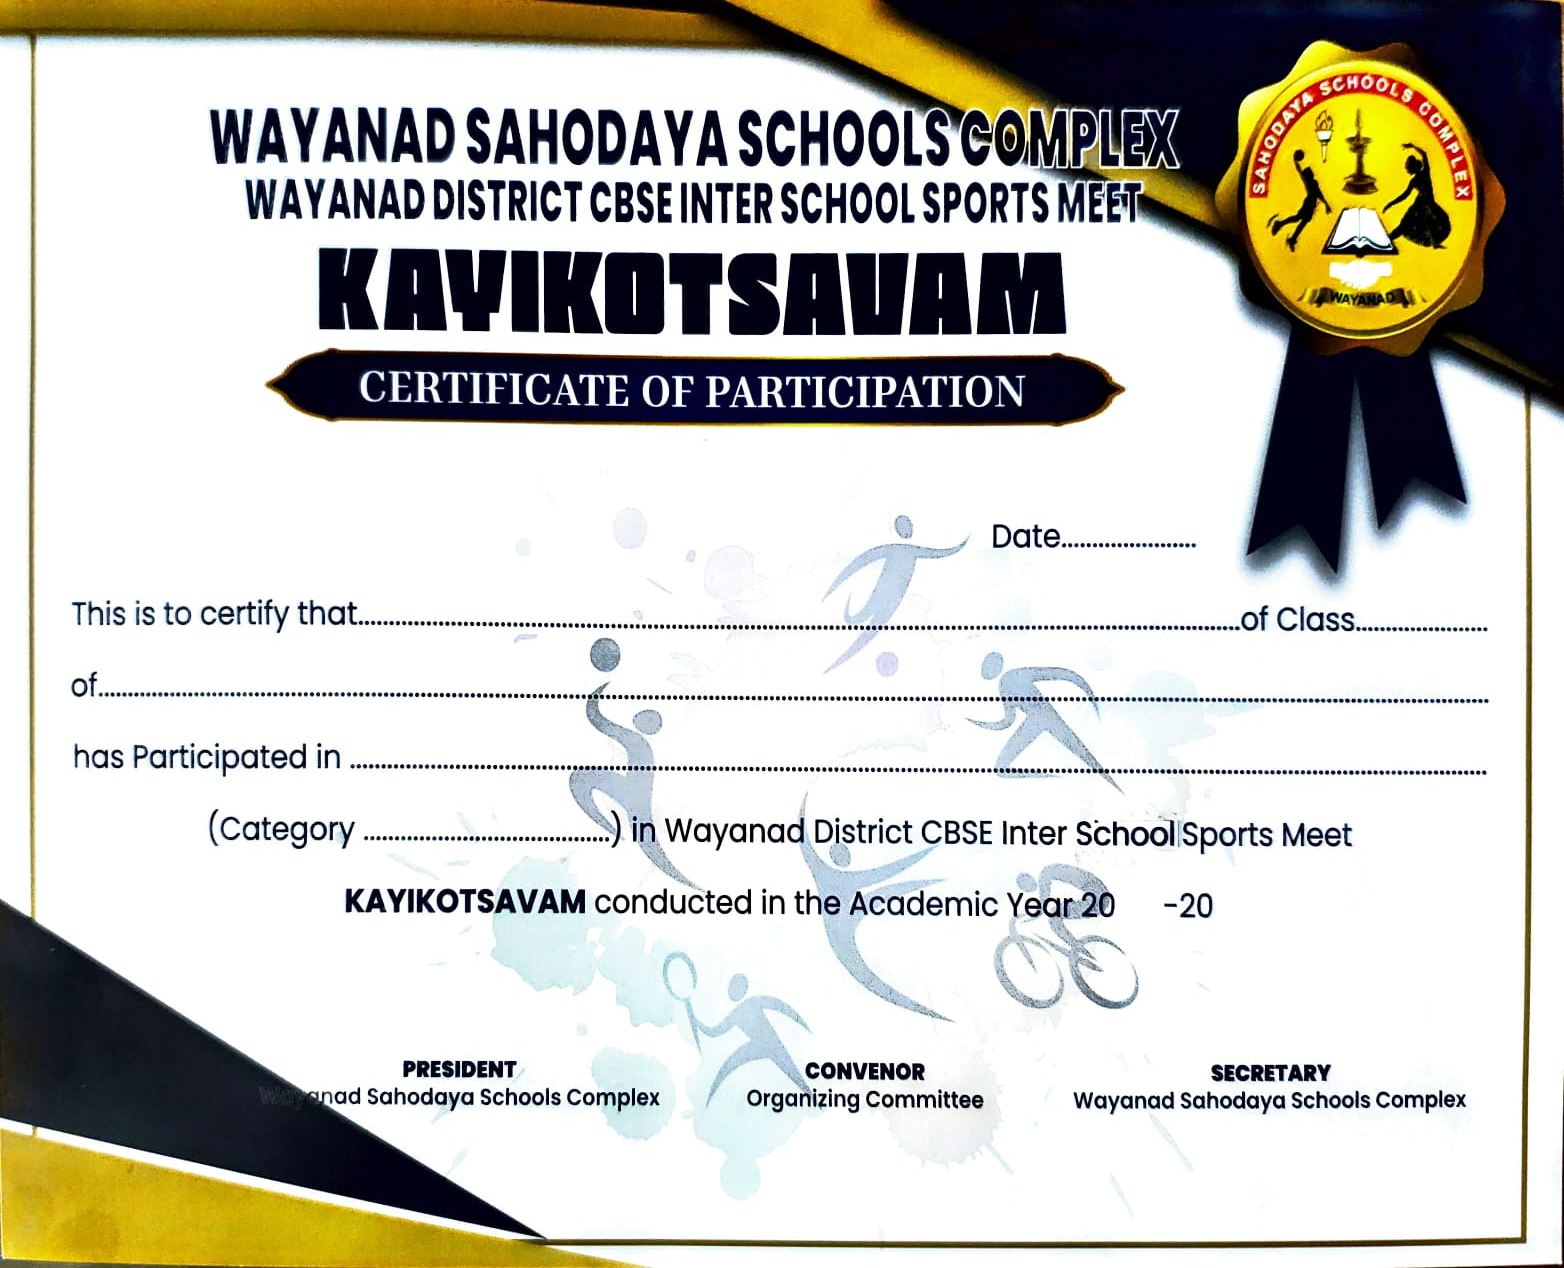
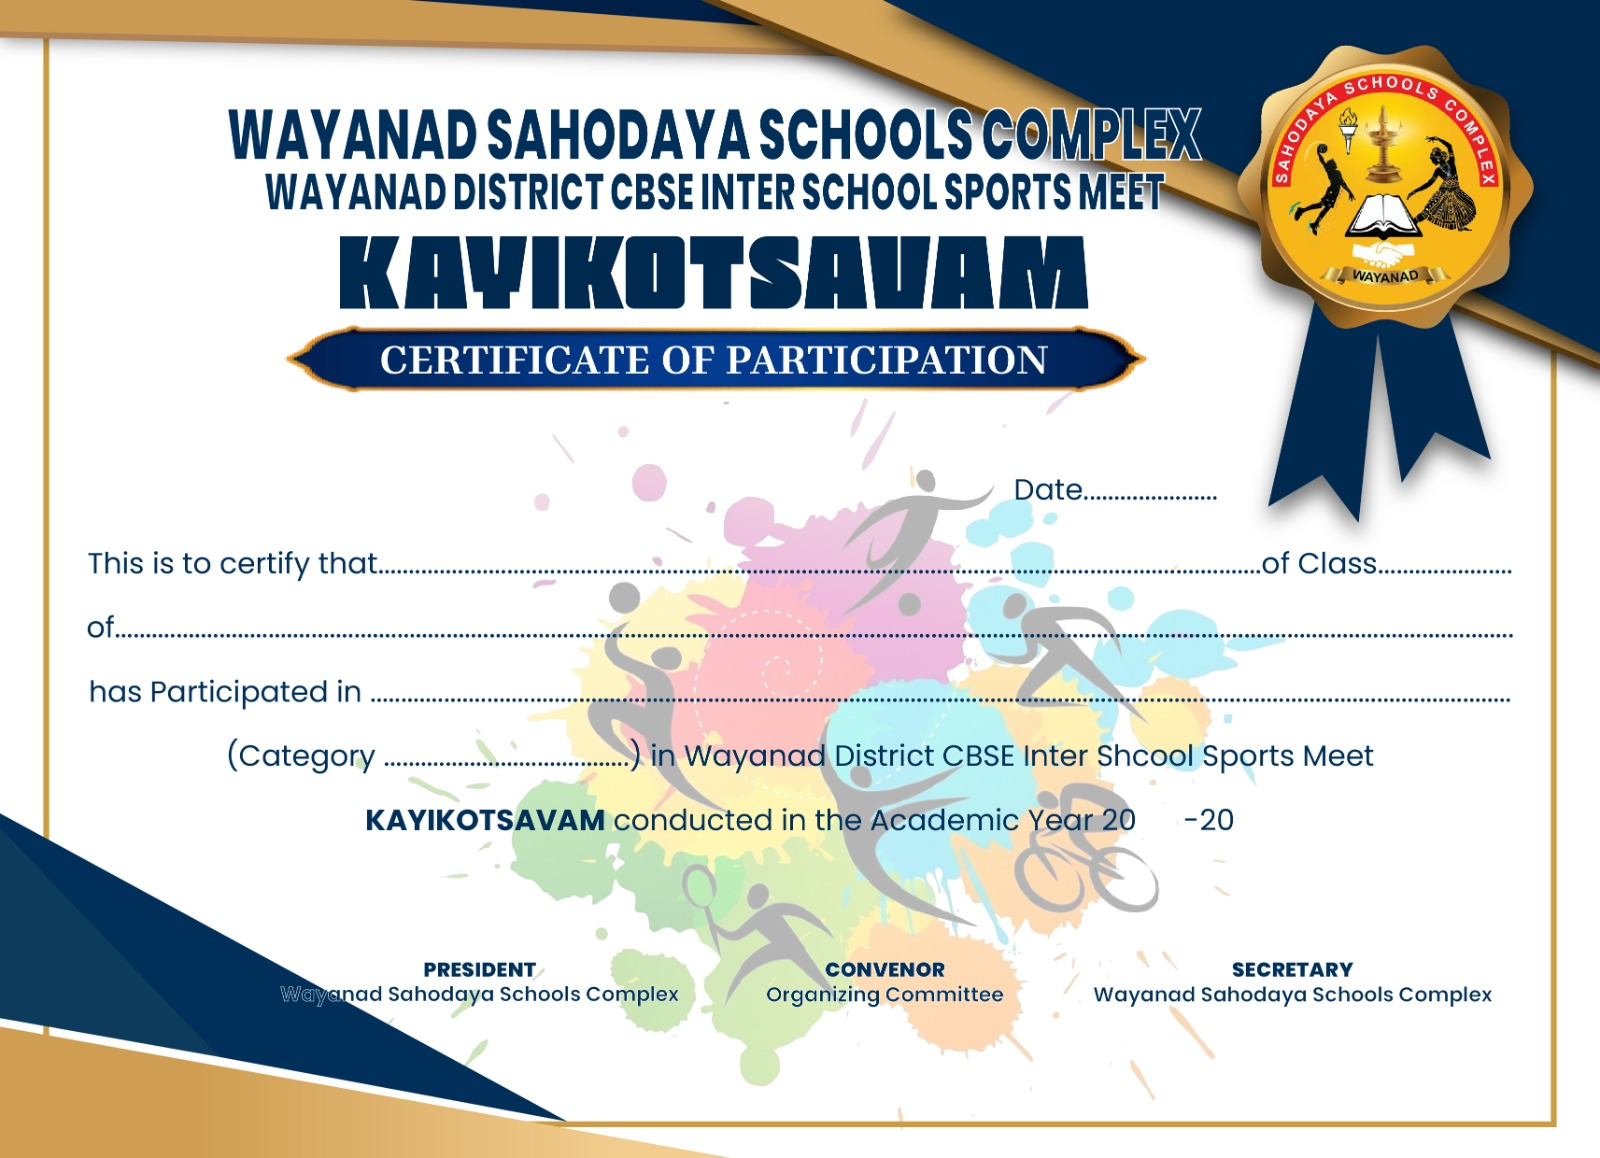
Align Wayanad participation fields to updated artwork and label sports categories

diff --git a/tests/Unit/Services/Events/FestCertificateServiceTallyTest.php b/tests/Unit/Services/Events/FestCertificateServiceTallyTest.php
@@ -337,7 +337,7 @@ class FestCertificateServiceTallyTest extends TestCase
         $event = $this->makeEvent();
         $event->update(['event_type' => 'sports', 'participation_certificate_mode' => 'per_item']);
         $school = $this->makeSchool($event->tenant_id);
-        $a = FestEventItem::create(['event_id' => $event->id, 'title' => '100 m', 'participant_type' => 'individual']);
+        $a = FestEventItem::create(['event_id' => $event->id, 'title' => '100 m', 'participant_type' => 'individual', 'age_group' => 'u17']);
         $b = FestEventItem::create(['event_id' => $event->id, 'title' => 'Long jump', 'participant_type' => 'individual']);
         $first = $this->individualParticipant($event, $a, $school->id);
         $second = $this->individualParticipant($event, $b, $school->id);
@@ -351,6 +351,9 @@ class FestCertificateServiceTallyTest extends TestCase
             $payload = $service->payloadFor($cert);
             $context = $service->renderContext($cert);
             $this->assertSame($payload['item']->title, $context['fieldValues']['item_title']);
+            if ($payload['item']->id === $a->id) {
+                $this->assertSame(\App\Support\FestSportsAgeGroup::labels($event->tenant_id)['u17'], $context['fieldValues']['category_name']);
+            }
             $this->assertMatchesRegularExpression('/^\d{2}\/\d{2}\/\d{4}$/', $context['fieldValues']['certificate_date_short']);
         }
         $this->assertSame(2, $service->certificateTally($event)['totals']['participation_certs']);

diff --git a/resources/certificate-templates/wayanad-sports/templates.php b/resources/certificate-templates/wayanad-sports/templates.php
@@ -34,14 +34,14 @@ return [
         'title' => 'Wayanad Kayikotsavam 2026-27 — Certificate of Participation',
         'certificate_type' => 'participation',
         'layout_json' => $layout + ['custom_fields' => [
-            $field('{certificate_date_short}', 40.3, 68, 8.5, 18),
-            $field('{recipient_name_upper}', 46.1, 23, 56),
-            $field('{class_roman}', 46.1, 86.5, 8.5, 20),
-            $field('{school_name_upper}', 51.9, 6.5, 88.5, 20),
-            $field('{item_title}', 57.7, 22.5, 72.5),
-            $field('{category_name}', 63.1, 23.2, 15.8, 20),
-            $field('26', 69.5, 71.3, 2, 20),
-            $field('27', 69.5, 77.5, 2, 20),
+            $field('{certificate_date_short}', 40.2, 67.8, 8.1, 18),
+            $field('{recipient_name_upper}', 45.9, 23.5, 55.1),
+            $field('{class_roman}', 45.9, 86.3, 8.2, 20),
+            $field('{school_name_upper}', 51.5, 7.3, 87.2, 20),
+            $field('{item_title}', 57.1, 23.3, 71.2),
+            $field('{category_name}', 62.6, 24, 15.5, 20),
+            $field('26', 69.2, 70.9, 2, 20),
+            $field('27', 69.2, 77.1, 2, 20),
         ]],
     ],
 ];

diff --git a/app/Services/Events/FestCertificateService.php b/app/Services/Events/FestCertificateService.php
@@ -1451,7 +1451,9 @@ class FestCertificateService
     {
         $classGroupLabels = FestClassGroupScheme::labels(null, $event->rootEvent());
 
-        $category = match (true) {
+        $category = $event->event_type === 'sports'
+            ? (FestItemCategoryLabel::resolve($item, $classGroupLabels) ?? 'Open')
+            : match (true) {
             (bool) $item?->class_group && $item->class_group !== 'open' => FestClassGroupScheme::resolveItemLabel($classGroupLabels, $item->class_group),
             (bool) $item?->age_group => $item->age_group,
             (bool) $item?->category && $item->category !== 'general' => ucwords(str_replace(['_', '-'], ' ', $item->category)),
